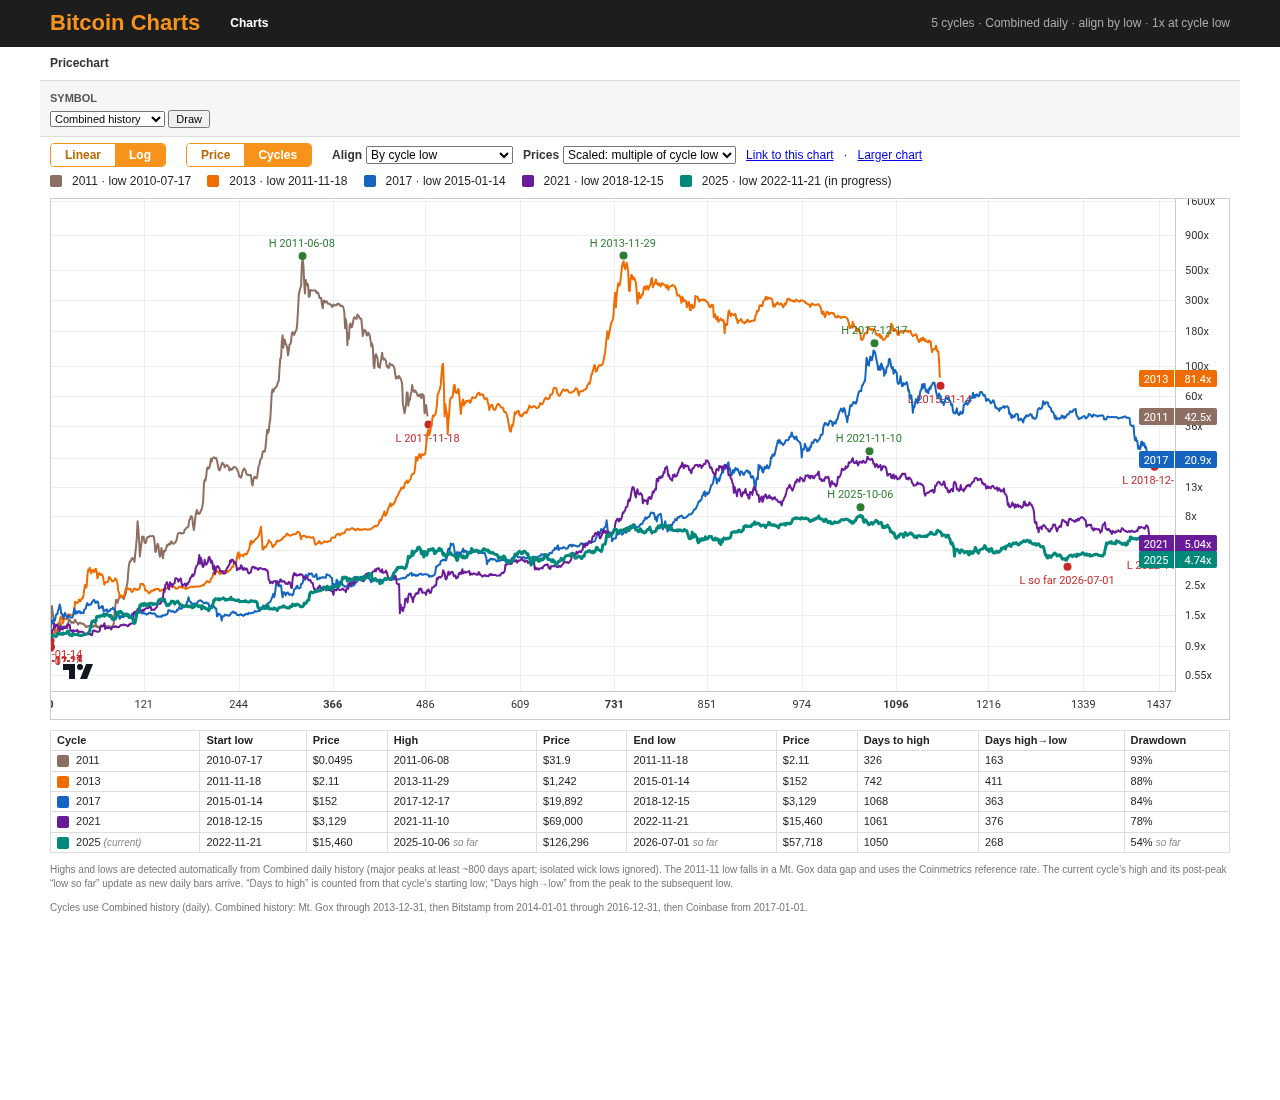
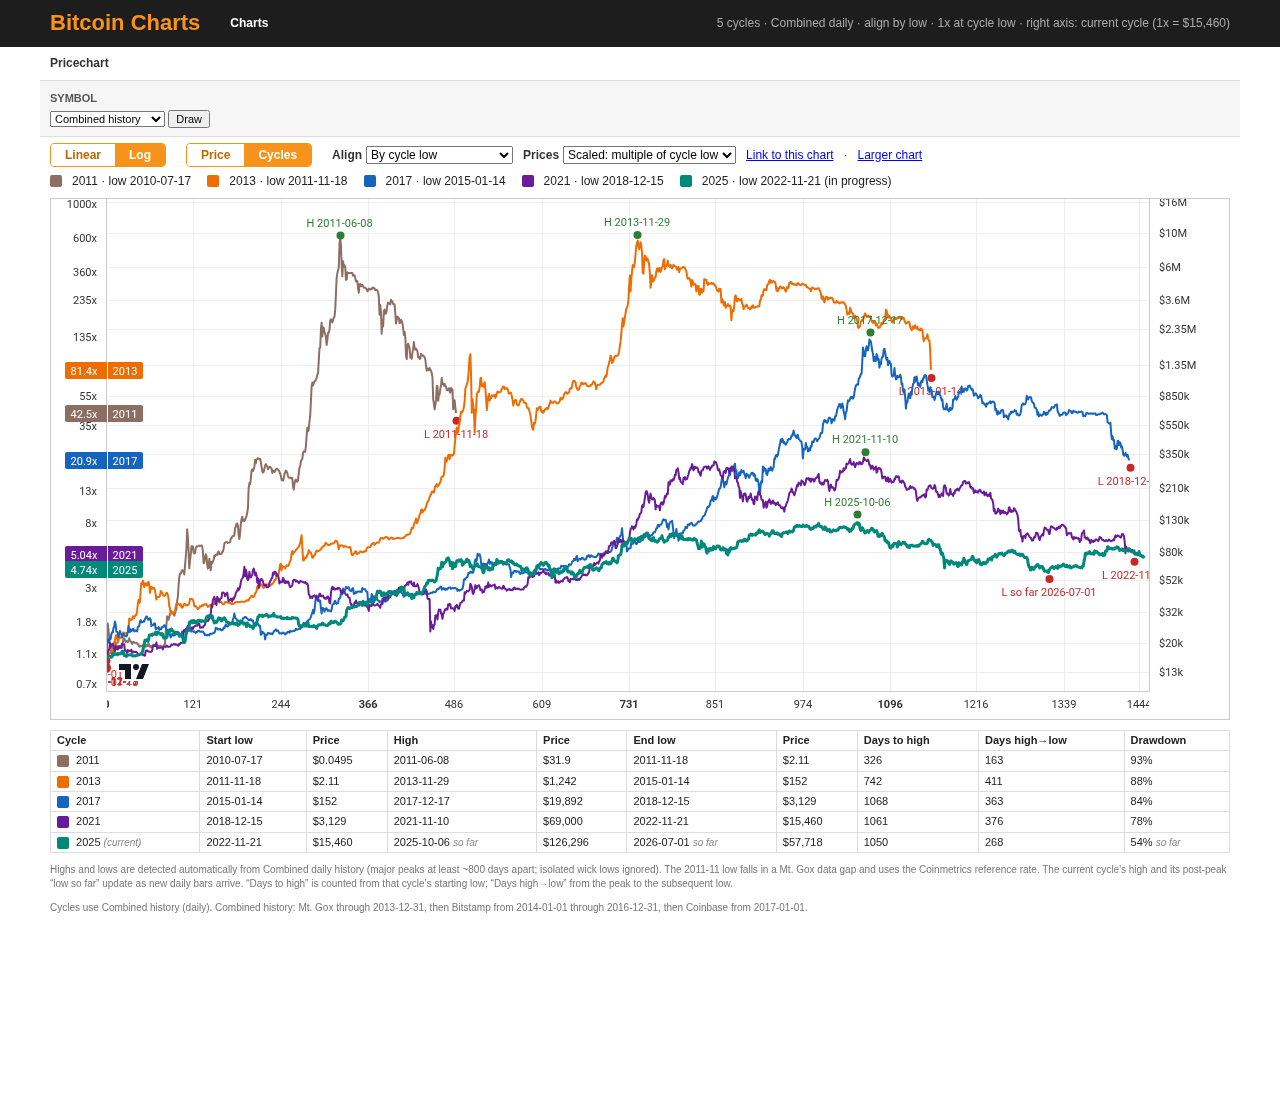
Show current-cycle USD on the right axis in scaled Cycles modes.
Scaled views now put the multiple (or percent of high) on the left
price axis and the same levels in current-cycle dollars on the right,
kept in sync under log and linear. Hover lists each cycle’s multiple
and USD price; stacked USD mode is unchanged.

diff --git a/app.js b/app.js
@@ -66,35 +66,113 @@ async function drawCycles(){
   const align=$('ca').value||'low';
   const mode=$('cp').value||CYCLE_PRICE_MODE;
   cycleSeries=buildCycleSeries(all,cycles,align,mode);
-  status(`${cycleSeries.length} cycles · Combined daily · align by ${align} · ${cycleModeLabel(mode)}`);
+  let statusExtra=cycleModeLabel(mode);
+  if(mode!=='usd'){
+    const ref=currentCycleScaleRef(cycleSeries,mode);
+    if(ref) statusExtra+=(mode==='high'
+      ?` · right axis: current cycle (100% = $${usd(ref)})`
+      :` · right axis: current cycle (1x = $${usd(ref)})`);
+  }
+  status(`${cycleSeries.length} cycles · Combined daily · align by ${align} · ${statusExtra}`);
   if($('sourceNote')) $('sourceNote').textContent='Cycles use Combined history (daily). '+SPLICE;
   $('cycleTable').innerHTML=cycleTableHtml(cycles);
   $('cycleLegend').innerHTML=cycleLegendHtml(cycleSeries);
   renderCycles(align,mode);
   clear_table();
 }
+function cycleUsdAxisFormat(v, isLog){
+  if(v==null||!isFinite(v)||v<=0)return '';
+  if(isLog) return '$'+compact(v);
+  if(v>=100) return '$'+v.toLocaleString('en-US',{maximumFractionDigits:0});
+  return '$'+(+v.toPrecision(3));
+}
+function scaledVisibleMinMax(lines, chart){
+  let from=-Infinity,to=Infinity;
+  const vr=chart.timeScale().getVisibleRange();
+  if(vr){from=vr.from;to=vr.to}
+  let min=Infinity,max=-Infinity;
+  for(const line of lines){
+    for(const p of line.pts){
+      if(p.value==null||!(p.value>0)) continue;
+      if(p.time<from||p.time>to) continue;
+      if(p.value<min)min=p.value;
+      if(p.value>max)max=p.value;
+    }
+  }
+  if(!isFinite(min)) return null;
+  if(!(max>min)){max=min*1.01;min=min*0.99}
+  return {min,max};
+}
 function renderCycles(align, mode){
   clearCharts();syncScaleToggle();
   mode=mode||$('cp').value||'usd';
   const isLog=$('l').checked;
-  const fmt=v=>{
+  const stacked=mode==='usd';
+  const ref=stacked?null:currentCycleScaleRef(cycleSeries,mode);
+  const mul=(!stacked&&ref)?(mode==='high'?ref/100:ref):null;
+  const leftFmt=v=>{
     if(v==null||!isFinite(v)||v<=0)return '';
-    if(mode==='usd') return isLog?compact(v):v.toLocaleString('en-US',{maximumFractionDigits:v>=100?0:2});
+    if(stacked) return isLog?compact(v):v.toLocaleString('en-US',{maximumFractionDigits:v>=100?0:2});
     return cyclePriceFormat(v, mode);
   };
-  const main=mkChart($('main'),{localization:{priceFormatter:fmt,timeFormatter:t=>'Day '+cycleAxisLabel(t)},
+  const rightFmt=v=>cycleUsdAxisFormat(v,isLog);
+  const scaleMode=isLog?LW.PriceScaleMode.Logarithmic:LW.PriceScaleMode.Normal;
+  const margins={top:.08,bottom:.06};
+  // Do not set localization.priceFormatter in scaled mode: it overrides every scale
+  // and would paint the right-axis USD ticks with the left-axis “x” / “%” formatter.
+  const loc=stacked
+    ? {priceFormatter:leftFmt,timeFormatter:t=>'Day '+cycleAxisLabel(t)}
+    : {timeFormatter:t=>'Day '+cycleAxisLabel(t)};
+  const main=mkChart($('main'),{localization:loc,
+    leftPriceScale:{visible:!stacked,borderColor:'#ccc',scaleMargins:margins,minimumWidth:56},
+    rightPriceScale:{visible:true,borderColor:'#ccc',scaleMargins:margins,minimumWidth:80},
     timeScale:{borderColor:'#ccc',timeVisible:true,secondsVisible:false,minBarSpacing:0.05,rightOffset:4,
       tickMarkFormatter:(t)=>cycleAxisLabel(t)}});
   charts.push(main);
-  main.priceScale('right').applyOptions({mode:isLog?LW.PriceScaleMode.Logarithmic:LW.PriceScaleMode.Normal,scaleMargins:{top:.08,bottom:.06}});
+  if(!stacked) main.priceScale('left').applyOptions({mode:scaleMode,scaleMargins:margins,minimumWidth:56});
+  main.priceScale('right').applyOptions({mode:scaleMode,scaleMargins:margins,minimumWidth:80});
   const refs=[];
+  const byTime=new Map();
   for(const line of cycleSeries){
+    const data=line.pts.filter(p=>p.value!=null&&p.value>0).map(p=>({time:p.time,value:p.value}));
+    for(const p of data){
+      const slot=byTime.get(p.time)||{min:p.value,max:p.value};
+      if(p.value<slot.min)slot.min=p.value;
+      if(p.value>slot.max)slot.max=p.value;
+      byTime.set(p.time,slot);
+    }
     const s=main.addLineSeries({color:line.color,lineWidth:line.open?3:2,priceLineVisible:false,lastValueVisible:true,
-      title:String(line.cycle?line.cycle.year:line.anchorLabel||''),crosshairMarkerRadius:4});
-    s.setData(line.pts.filter(p=>p.value!=null&&p.value>0).map(p=>({time:p.time,value:p.value})));
+      title:String(line.cycle?line.cycle.year:line.anchorLabel||''),crosshairMarkerRadius:4,
+      priceScaleId:stacked?'right':'left',
+      priceFormat:{type:'custom',formatter:leftFmt,minMove:0.0001},
+      autoscaleInfoProvider: stacked?undefined:()=>{
+        const r=scaledVisibleMinMax(cycleSeries,main);
+        if(!r) return null;
+        return {priceRange:{minValue:r.min,maxValue:r.max}};
+      }});
+    s.setData(data);
     const marks=cycleMarkers(line,align);
     if(marks.length) s.setMarkers(marks);
     refs.push({s,line});
+  }
+  // Invisible right-scale envelopes: value = scaled * current-cycle reference, so
+  // the right axis is current-cycle USD and stays locked to the left multiple/% axis.
+  if(!stacked && mul && byTime.size){
+    const times=[...byTime.keys()].sort((a,b)=>a-b);
+    const lo=times.map(t=>({time:t,value:byTime.get(t).min*mul}));
+    const hi=times.map(t=>({time:t,value:byTime.get(t).max*mul}));
+    const ghostOpt={
+      color:'rgba(0,0,0,0)',lineVisible:false,priceLineVisible:false,lastValueVisible:false,
+      crosshairMarkerVisible:false,pointMarkersVisible:false,priceScaleId:'right',
+      priceFormat:{type:'custom',formatter:rightFmt,minMove:0.01},
+      autoscaleInfoProvider:()=>{
+        const r=scaledVisibleMinMax(cycleSeries,main);
+        if(!r) return null;
+        return {priceRange:{minValue:r.min*mul,maxValue:r.max*mul}};
+      }
+    };
+    const g1=main.addLineSeries(ghostOpt); g1.setData(lo);
+    const g2=main.addLineSeries({...ghostOpt}); g2.setData(hi);
   }
   main.timeScale().fitContent();setTimeout(()=>main.timeScale().fitContent(),50);
   main.subscribeCrosshairMove(p=>{
@@ -108,9 +186,9 @@ function renderCycles(align, mode){
       const bar=pt&&pt.bar;
       const name=line.cycle?line.cycle.year:line.label.split(' ')[0];
       const date=bar?isoUTC(bar.time):'';
-      const usdPx=bar?(' $'+usd(bar.close)):'';
-      const scaled=(mode!=='usd')?(' '+cyclePriceFormat(v.value,mode)):'';
-      bits.push(`${name}${date?' '+date:''}${usdPx}${scaled}`);
+      const usdPx=bar?('$'+usd(bar.close)):'';
+      if(mode==='usd') bits.push(`${name}${date?' '+date:''} ${usdPx}`.trim());
+      else bits.push(`${name}${date?' '+date:''} ${cyclePriceFormat(v.value,mode)} ${usdPx}`.replace(/ +/g,' ').trim());
     }
     $('legend').textContent=bits.join('  ·  ');
   });

diff --git a/cycles.js b/cycles.js
@@ -38,6 +38,17 @@ function cyclePriceFormat(v, mode){
   }
   return compact(v);
 }
+
+// Reference USD price for the open (current) cycle: start low, peak, or day-0 close.
+function currentCycleScaleRef(lines, mode){
+  const line=lines.find(l=>l.open||(l.cycle&&l.cycle.open))||lines.find(l=>l.cycle)||(lines&&lines.at(-1));
+  const cur=line&&line.cycle;
+  if(!cur) return null;
+  if(mode==='low') return cur.startLow.price;
+  if(mode==='high') return cur.high.price;
+  if(mode==='day0') return (line.ctx&&line.ctx.day0Value)||null;
+  return null;
+}
 function cycleModeLabel(mode){
   return {usd:'raw USD',low:'1x at cycle low',high:'% of cycle high',day0:'1x at day 0'}[mode]||mode;
 }

diff --git a/README.md b/README.md
@@ -5,4 +5,4 @@ Static bitcoincharts.com-style chart page.
 - Refresh daily caches: `python3 fetch_history.py` (writes data/coinbaseUSD.json, bitstampUSD.json, mtgoxUSD.json, combinedUSD.json). Sources and splice dates: data/SOURCES.md. The page also tops up the latest Coinbase/Bitstamp days live.
 - Files: index.html, style.css, app.js, data.js, indicators.js, vendor/lightweight-charts.js (v4.2.3)
 - Screenshots: `node tools_screenshot.js` (needs playwright-core in /tmp/pw and google-chrome)
-- Cycles view: overlay each 4-year cycle as a line vs days since an anchor (cycle low, cycle high, official halving dates, or Jan 1 every 4 years). Prices can be stacked USD or scaled (multiple of cycle low, % of cycle high, or relative to day 0). Always uses Combined daily history. Settings are in the URL hash (`cy`, `ca`, `cp`).
+- Cycles view: overlay each 4-year cycle as a line vs days since an anchor (cycle low, cycle high, official halving dates, or Jan 1 every 4 years). Prices can be stacked USD or scaled (multiple of cycle low, % of cycle high, or relative to day 0). In scaled modes the left axis is the multiple (or % of high) and the right axis is that value in current-cycle USD (multiple × the current cycle’s low, high, or day-0 close). Always uses Combined daily history. Settings are in the URL hash (`cy`, `ca`, `cp`).
